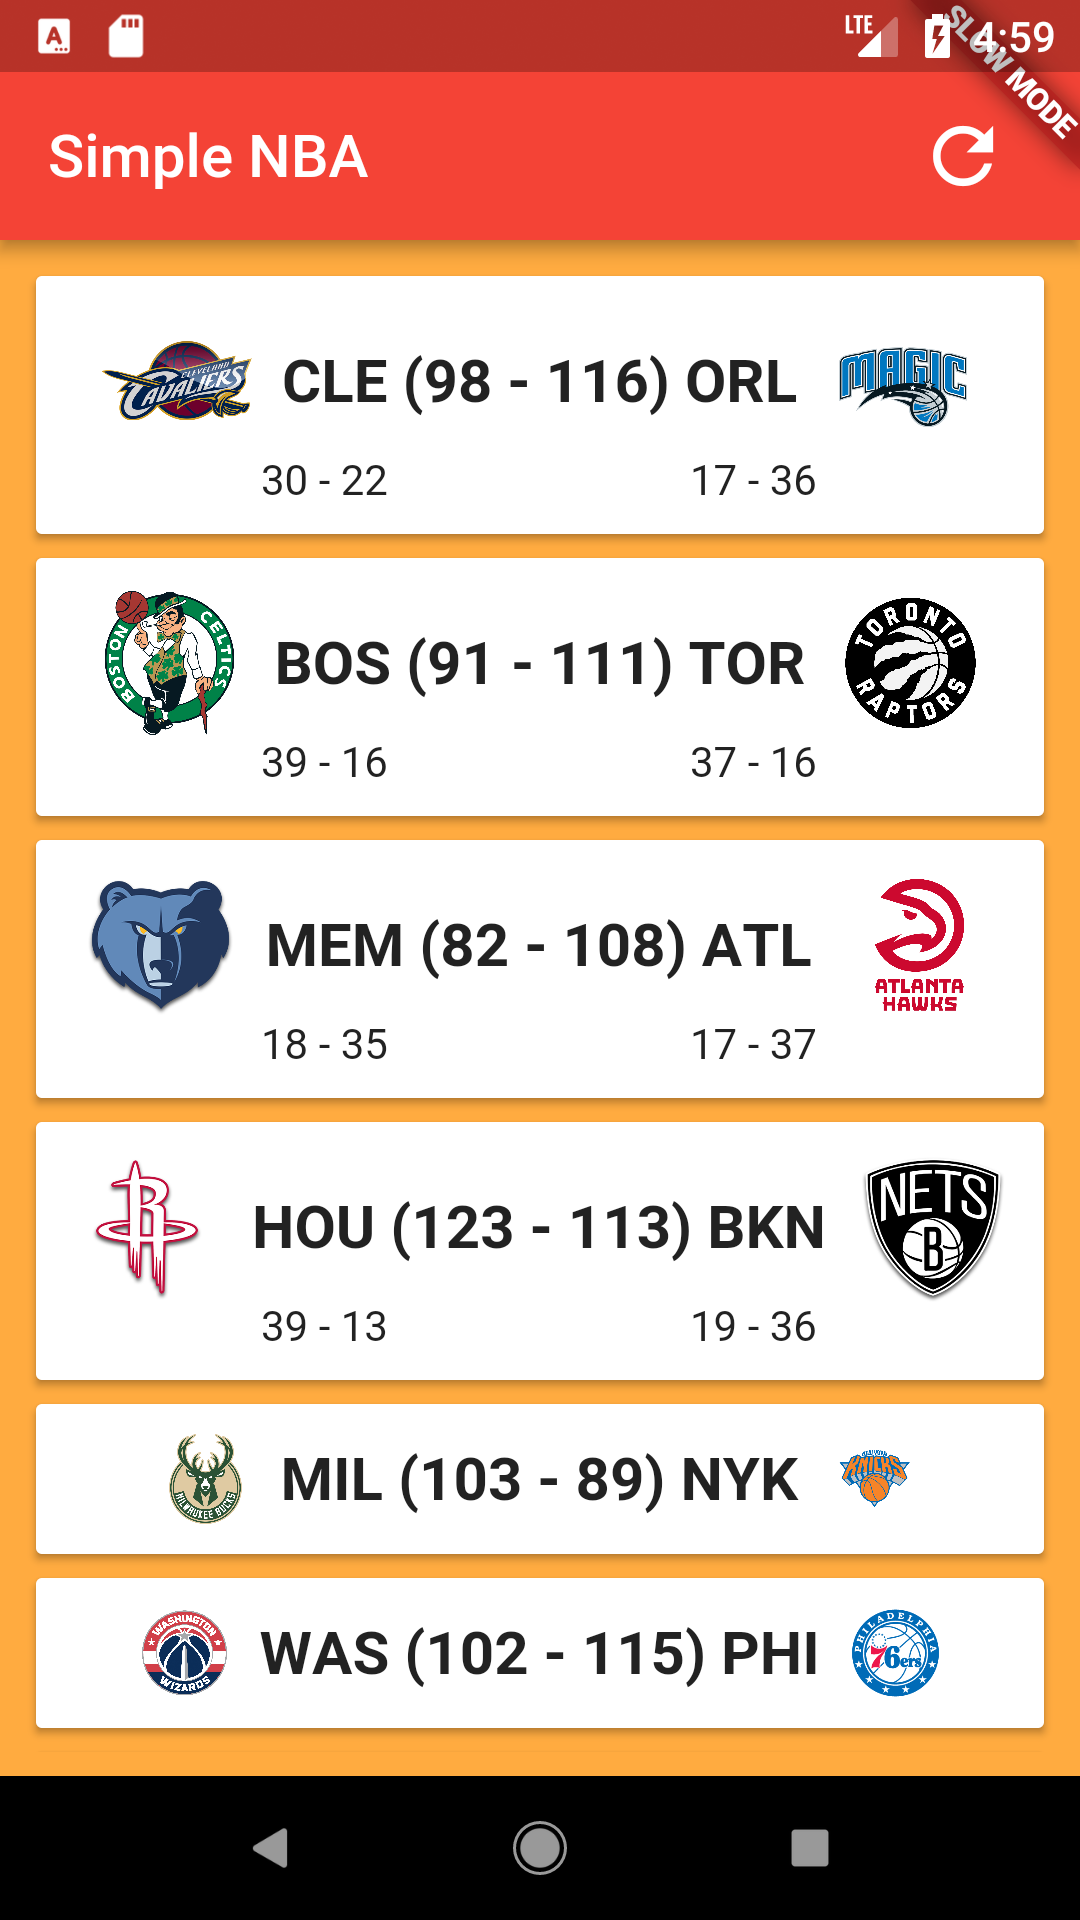
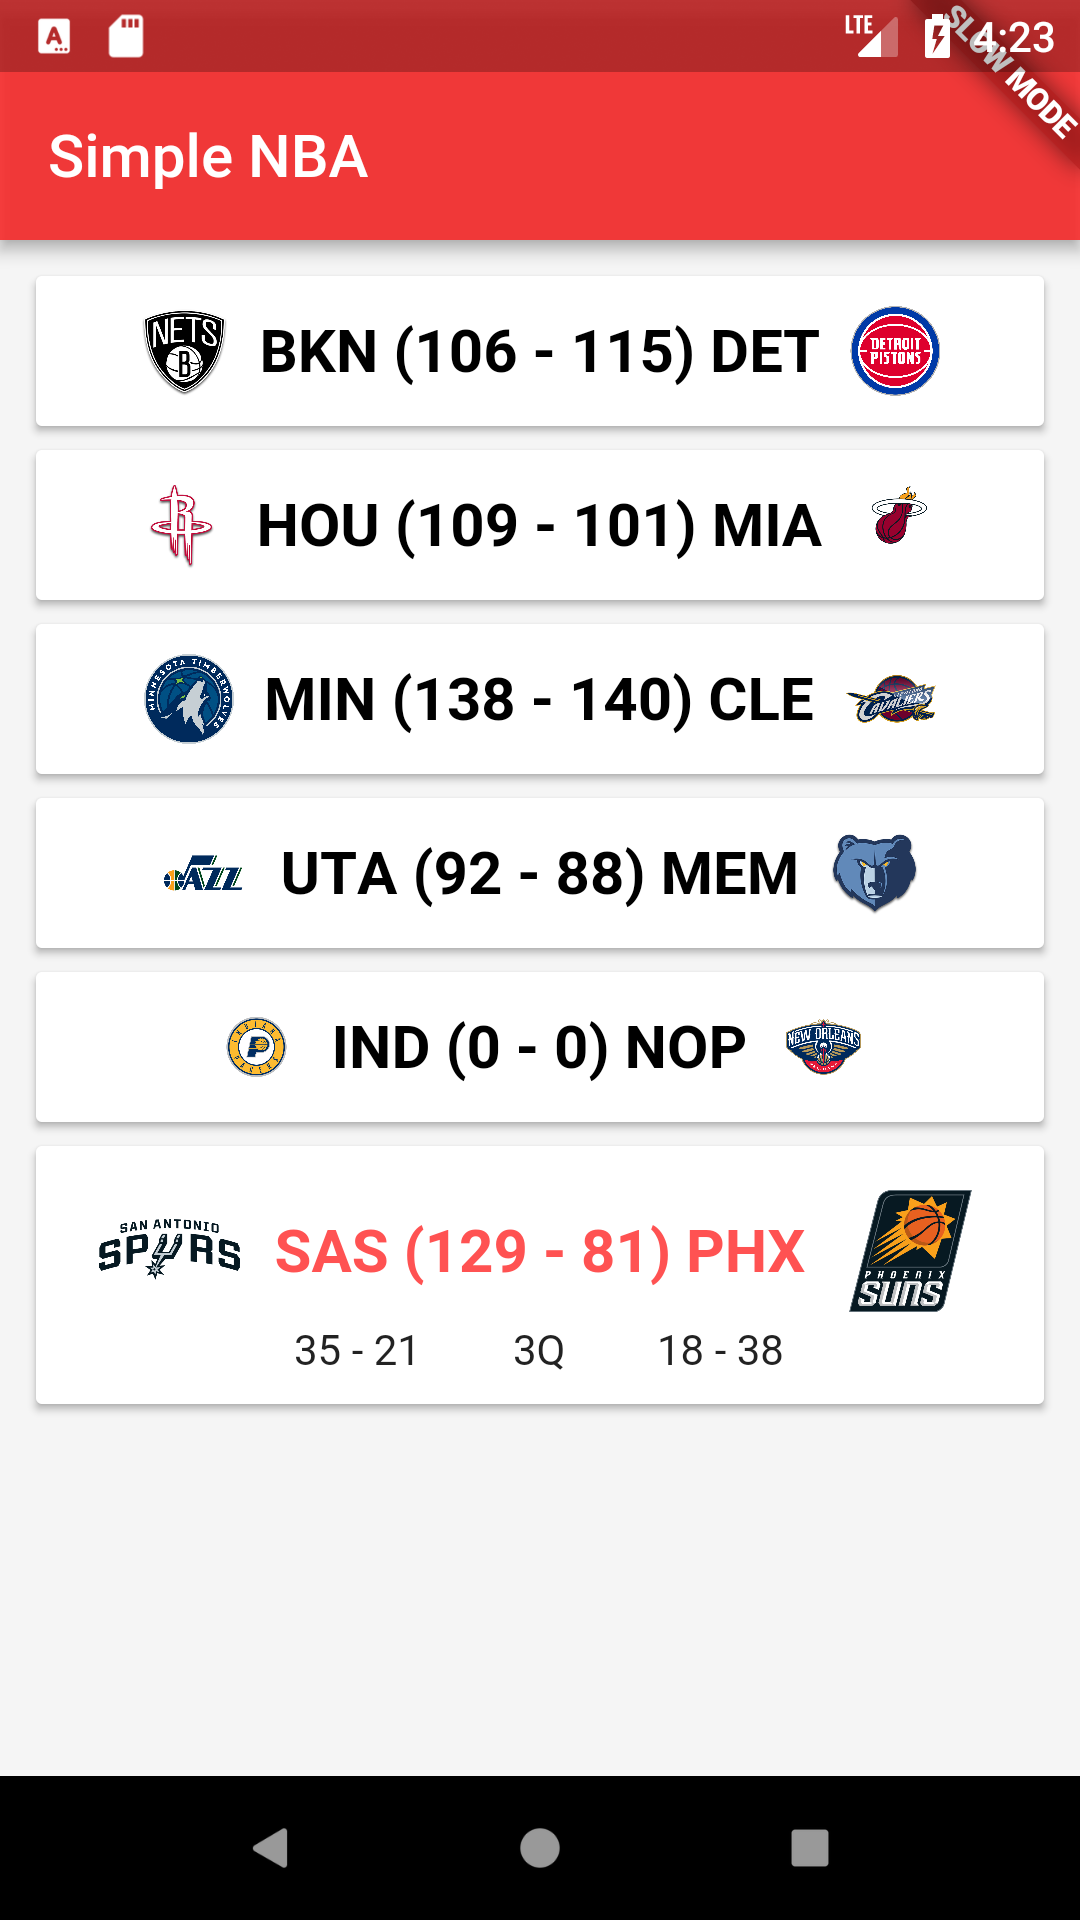
Fixed refresh bug
Fixed a bug that didn't allow the app to refresh its content.
Changed background color.
Changed README screenshots.

Changed region(s): [[0.0, 0.125, 1.0, 0.9375], [0.9167, 0.0, 0.9778, 0.0312], [0.8556, 0.0625, 0.9167, 0.0938]]

diff --git a/lib/main.dart b/lib/main.dart
@@ -1,49 +1,74 @@
 import 'package:flutter/material.dart';
 import 'Games.dart';
 import 'Widgets.dart';
+import 'dart:async';
 
 void main() {
-  runApp(new MaterialApp(
-      home: new mainWidget()
-  )
-  );
+  runApp(new MaterialApp(home: new mainApp()));
 }
 
-class mainWidget extends StatelessWidget {
-  List<game> games = new List<game>();
+class mainApp extends StatefulWidget {
+  createState() => new mainWidget();
+}
+
+class mainWidget extends State<mainApp> {
+  List<Widget> gameCards = new List<Widget>();
+  bool refresh;
+  bool start;
+
+  mainWidget() {
+    refresh = false;
+    start = false;
+  }
 
   @override
   Widget build(BuildContext context) {
     return new Scaffold(
         appBar: new AppBar(
             title: new Text("Simple NBA"),
-            backgroundColor: new Color.fromRGBO(255, 25, 25, 0.8)
-        ),
-        body: new RefreshIndicator(child:
-          new Center(
-             child: new FutureBuilder(
-                future: loadData(),
-                builder: (BuildContext context,
-                    AsyncSnapshot<dynamic> response) {
-                  if (!response.hasData)
-                    return loadingScreen();
-                  else {
-                    games = response.data;
-                    return new Container(
-                      child: new ListView(
-                        children: getWidgetFromGame(games)
-                      ),
-                      padding: new EdgeInsets.all(8.0)
-                    );
-                  }
-                }
-             )
-        ),
-        onRefresh: () async {
-          games = await loadData();
-        }
-      ),
-      backgroundColor: new Color.fromRGBO(40, 40, 190, 1.0)
-    );
+            backgroundColor: new Color.fromRGBO(255, 25, 25, 0.8)),
+        body: new RefreshIndicator(
+            child: new Center(child: checkRefresh()), onRefresh: _refresh),
+        backgroundColor: new Color.fromRGBO(245, 245, 245, 1.0));
+  }
+
+  Future<Null> _refresh() async {
+    List<game> newGames = await loadData();
+    this.setState(() {
+      refresh = !refresh;
+      gameCards = getWidgetFromGame(newGames);
+    });
+    return new Future<Null>.value();
+  }
+
+  Widget checkRefresh() {
+    if (!refresh) {
+      return new FutureBuilder(
+          future: loadData(),
+          builder: (BuildContext context, AsyncSnapshot<dynamic> response) {
+            if(response.hasError)
+              return new Container(
+                  child: new Text(response.error.toString(), style: new TextStyle(fontSize: 40.0),),
+                  color: Colors.red);
+            else if (!response.hasData) {
+              if (!start)
+                return loadingScreen();
+              else
+                return new Container(
+                    child: new ListView(children: gameCards),
+                    padding: new EdgeInsets.all(8.0));
+            } else {
+              start = true;
+              gameCards = getWidgetFromGame(response.data);
+              return new Container(
+                  child: new ListView(children: gameCards),
+                  padding: new EdgeInsets.all(8.0));
+            }
+          });
+    } else {
+      return new Container(
+          child: new ListView(children: gameCards),
+          padding: new EdgeInsets.all(8.0));
+    }
   }
 }

diff --git a/lib/Games.dart b/lib/Games.dart
@@ -1,17 +1,23 @@
 import 'dart:convert';
 import 'dart:async';
 import 'package:http/http.dart' as http;
+import 'dart:io';
 
 //Return decoded JSON from url web into String
 Future<String> _loadData(String url) async { return (await (http.read(url))); }
 
-Future loadData() async {
+/*Future loadData() async {
   var prefix = "http://data.nba.net/10s/";
   var today = prefix + "prod/v1/today.json";
   var decod = JSON.decode(await _loadData(today));
   var url = decod["links"]["todayScoreboard"];
 
   return game.setGames(_loadData(prefix+url));
+}*/
+
+Future loadData() async
+{
+  return game.setGames(_loadData("http://192.168.1.12:8000/Documents/GitHub/simple_nba/lib/scoreboard.json"));
 }
 
 class game

diff --git a/lib/Widgets.dart b/lib/Widgets.dart
@@ -97,8 +97,7 @@ class tapCard extends State<gameCard> {
                       padding: new EdgeInsets.only(left: 30.0, right: 5.0)
                     )
                   ]
-              ),
-              getSpecialPlayer()
+              )
             ])
       ];
     }
